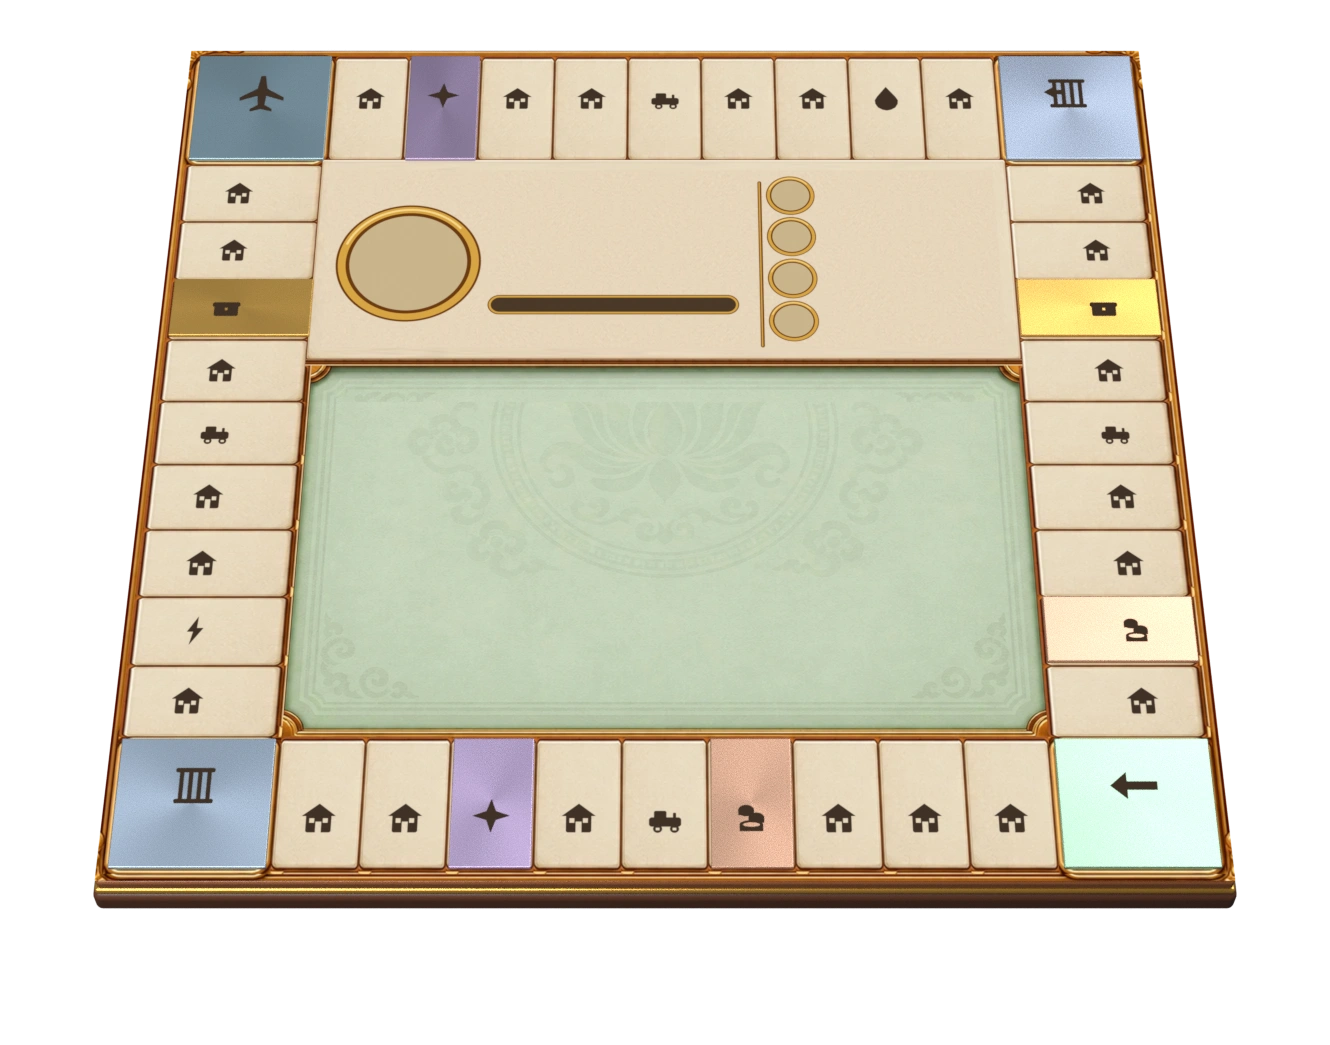
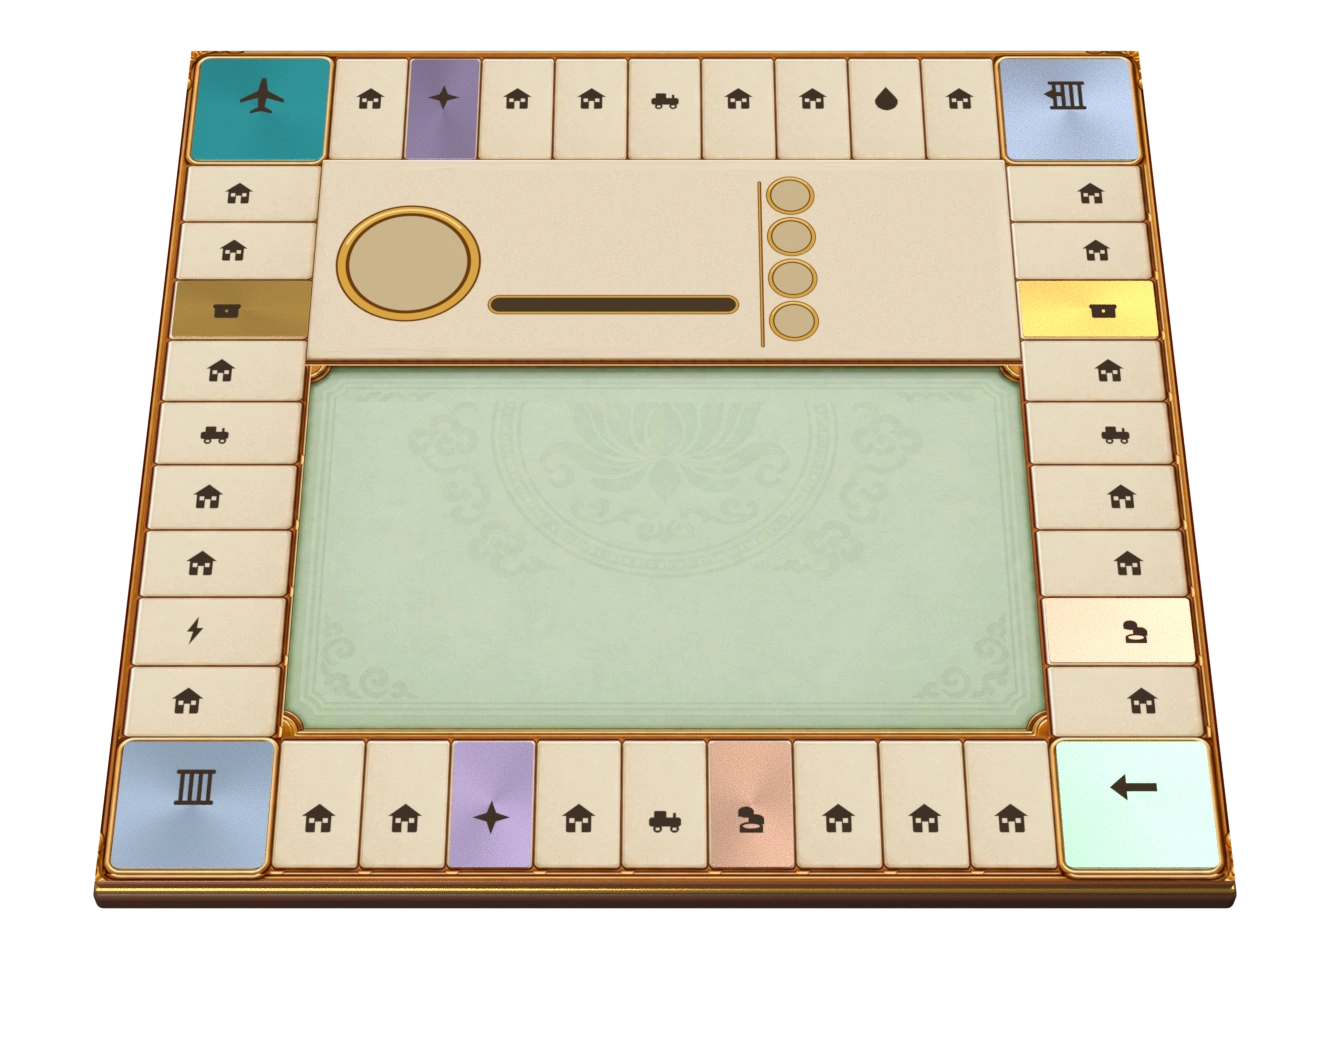
feat(co-ty-phu-classic): polish metallic tiles and distinguish monopoly colors (#81)

diff --git a/games/co-ty-phu-classic/src/scenes/board/monopolyShader.ts b/games/co-ty-phu-classic/src/scenes/board/monopolyShader.ts
@@ -52,7 +52,13 @@ void main() {
              && cross2(uD-uC,p-uC) >= 0. && cross2(uA-uD,p-uD) >= 0.;
   if (!inside) { gl_FragColor = vec4(0.); return; }
   float coverage = smoothstep(0., .7, d);
-  float alpha = 1. - smoothstep(.9, 1.9, d);
+  // Two fine inlaid rails and diamond stitches distinguish a color set from the
+  // owner's solid enamel strip, even when their hues are similar.
+  float outer = 1. - smoothstep(.45, 1.05, abs(d - 1.));
+  float inner = 1. - smoothstep(.25, .8, abs(d - 3.));
+  float stitch = abs(mod(nearest.y + uPhase * 5., 12.) - 6.);
+  float diamond = 1. - smoothstep(.7, 1.3, stitch + abs(d - 2.));
+  float alpha = max(outer * .92, max(inner * .4, diamond * .85));
   vec3 color = uColor;
   float hot = 0.;
   if (uStrength >= 2.) {
@@ -69,7 +75,7 @@ void main() {
                   * smoothstep(.6, 2., d) * smoothstep(.25, .72, flow * .75 + detail * .25);
       alpha = max(alpha, flame * .7);
       hot = exp(-d * d * 1.4) * (.55 + flow * .20);
-      color = mix(uColor * 1.35, vec3(1., .96, .85), hot);
+      color = mix(uColor * 1.25, vec3(1., .96, .85), hot);
     }
   }
   alpha *= coverage;

diff --git a/games/co-ty-phu-classic/src/game/model.ts b/games/co-ty-phu-classic/src/game/model.ts
@@ -209,15 +209,16 @@ export const BOARD: readonly Square[] = [
   street('Cà Mau', 'xanh-dam', 180),
 ];
 
+// Group IDs remain stable; their display palette is independent of player colors.
 export const GROUP_COLORS: Record<Group, number> = {
-  nau: 0x895135,
-  'xanh-nhat': 0x73c4df,
-  hong: 0xe07bba,
-  cam: 0xe89b43,
-  do: 0xcd5249,
-  vang: 0xe9ce63,
-  'xanh-la': 0x5da968,
-  'xanh-dam': 0x416fbd,
+  nau: 0x434959,
+  'xanh-nhat': 0x73dde7,
+  hong: 0xb94dd6,
+  cam: 0x7451c7,
+  do: 0xc3288e,
+  vang: 0x77717d,
+  'xanh-la': 0x673c91,
+  'xanh-dam': 0x176578,
 };
 
 export const isDeed = (square: Square): square is Square & { price: number } =>

diff --git a/games/co-ty-phu-classic/src/scenes/CoTyPhuClassicView.ts b/games/co-ty-phu-classic/src/scenes/CoTyPhuClassicView.ts
@@ -1728,8 +1728,8 @@ export class CoTyPhuClassicView extends GameView<View> {
         if (dice) {
           this.visualPhase = 'rolling';
           this.dice.roll(...beat.dice);
-          this.sfx('tycoon-dice');
           this.onState(this.ctx);
+          await fx.sound('tycoon-dice', { maxStartDelayMs: 80 });
           await fx.frame((delta) => {
             this.dice.update(delta);
             return this.dice.settled;

diff --git a/games/co-ty-phu-classic/src/scenes/board/MonopolyBorders.ts b/games/co-ty-phu-classic/src/scenes/board/MonopolyBorders.ts
@@ -55,7 +55,7 @@ export class MonopolyBorders {
             setupUniforms: (setUniform: (name: string, value: number) => void) =>
               setUniform('uTime', this.elapsed),
           })
-          .setDepth(0.55);
+          .setDepth(0.45);
         this.shaders.set(key, shader);
       }
       const padding = 0;

diff --git a/games/co-ty-phu-classic/sources/render_board_25d.py b/games/co-ty-phu-classic/sources/render_board_25d.py
@@ -7,6 +7,7 @@ Run from the repository root:
 from __future__ import annotations
 
 import json
+import math
 import sys
 from pathlib import Path
 
@@ -27,14 +28,14 @@ WIDTH, HEIGHT = 1400, 1200
 CROP_X, CROP_Y, CROP_WIDTH, CROP_HEIGHT = 35, 145, 1330, 1045
 INK = (63, 49, 38, 255)
 GROUP_COLORS = {
-    "nau": (137, 81, 53, 255),
-    "xanh-nhat": (115, 196, 223, 255),
-    "hong": (224, 123, 186, 255),
-    "cam": (232, 155, 67, 255),
-    "do": (205, 82, 73, 255),
-    "vang": (233, 206, 99, 255),
-    "xanh-la": (93, 169, 104, 255),
-    "xanh-dam": (65, 111, 189, 255),
+    "nau": (67, 73, 89, 255),
+    "xanh-nhat": (115, 221, 231, 255),
+    "hong": (185, 77, 214, 255),
+    "cam": (116, 81, 199, 255),
+    "do": (195, 40, 142, 255),
+    "vang": (119, 113, 125, 255),
+    "xanh-la": (103, 60, 145, 255),
+    "xanh-dam": (23, 101, 120, 255),
 }
 # The players' panel: the tile ring widened into the field's upper part, with sockets the game
 # fills in (the turn player's picture, name, cash and clock; each seat's ball and cash). In board
@@ -135,6 +136,17 @@ def tile_side(i):
     if 31 <= i <= 39:
         return "right"
     return "corner"
+
+
+def face_bounds(square):
+    """Ivory face inside the printed bevel; these are surface limits, not tile hit bounds."""
+    u0, v0, u1, v1 = square_bounds(square)
+    side = tile_side(square)
+    iu, iv = (.035, .045) if side in ("bottom", "top") else (.045, .035)
+    if side == "corner":
+        iu, iv = .04, .04
+    du, dv = (u1 - u0) * iu, (v1 - v0) * iv
+    return u0 + du, v0 + dv, u1 - du, v1 - dv
 
 
 def draw_icon(draw, kind, size):
@@ -433,7 +445,7 @@ METAL_COLORS = {
     "start": (0.32, 0.52, 0.38), "chance": (0.51, 0.40, 0.65),
     "chest": (0.72, 0.43, 0.10), "tax": (0.61, 0.36, 0.25),
     "jail": (0.37, 0.47, 0.60), "go-jail": (0.35, 0.42, 0.55),
-    "airport": (0.36, 0.54, 0.65),
+    "airport": (0.06, 0.62, 0.68),
 }
 
 
@@ -521,24 +533,42 @@ surface.data.materials.append(print_mat)
 
 # Real shallow metal plates: bevels and highlights come from the shared studio lights,
 # rather than gradients painted onto the board's emissive illustration.
-for square, (kind, _) in enumerate(SQUARES):
-    if kind not in METAL_COLORS:
-        continue
-    u0, v0, u1, v1 = square_bounds(square)
-    inset_u, inset_v = (u1 - u0) * 0.028, (v1 - v0) * 0.028
-    bpy.ops.mesh.primitive_cube_add(size=1, location=(((u0 + u1) / 2 - 0.5) * 4, (0.5 - (v0 + v1) / 2) * 4, 0.044))
-    plate = bpy.context.object
-    plate.name = f"Brushed {kind} plate {square}"
-    plate.dimensions = ((u1 - u0 - 2 * inset_u) * 4, (v1 - v0 - 2 * inset_v) * 4, 0.018)
-    bpy.ops.object.transform_apply(location=False, rotation=False, scale=True)
-    bevel = plate.modifiers.new("Machined perimeter", "BEVEL")
-    bevel.width, bevel.segments = 0.005, 4
+def metal_plate(square, kind):
+    u0, v0, u1, v1 = face_bounds(square)
+    x0, x1 = (u0 - .5) * 4, (u1 - .5) * 4
+    y0, y1 = (.5 - v1) * 4, (.5 - v0) * 4
+    # Build the rounded XY silhouette explicitly. A cube bevel alone clamps the corner
+    # radius to half the plate thickness, leaving nearly square corners on a thin sheet.
+    radius = min(x1 - x0, y1 - y0) * .055
+    outline = []
+    for cx, cy, start in [(x1-radius, y1-radius, 0), (x0+radius, y1-radius, 90),
+                          (x0+radius, y0+radius, 180), (x1-radius, y0+radius, 270)]:
+        for step in range(9):
+            angle = math.radians(start + step * 90 / 8)
+            outline.append((cx + radius * math.cos(angle), cy + radius * math.sin(angle)))
+    n = len(outline)
+    vertices = [(x, y, z) for z in (.035, .041) for x, y in outline]
+    faces = [tuple(reversed(range(n))), tuple(range(n, n * 2))]
+    faces += [(i, (i+1) % n, (i+1) % n+n, i+n) for i in range(n)]
+    mesh = bpy.data.meshes.new(f"Rounded metal face {square}")
+    mesh.from_pydata(vertices, [], faces)
+    mesh.update()
+    plate = bpy.data.objects.new(f"Brushed {kind} plate {square}", mesh)
+    bpy.context.collection.objects.link(plate)
+    bevel = plate.modifiers.new("Fine machined lip", "BEVEL")
+    bevel.width, bevel.segments = .001, 3
     plate.modifiers.new("Planar highlights", "WEIGHTED_NORMAL")
     plate.data.materials.append(brushed_metal(f"{kind} satin metal", METAL_COLORS[kind]))
 
+
+for square, (kind, _) in enumerate(SQUARES):
+    if kind not in METAL_COLORS:
+        continue
+    metal_plate(square, kind)
+
 # Transparent printed ink rests on top of the metal, at the identical board UV positions.
 ink_mesh = bpy.data.meshes.new("metal ink plane")
-ink_mesh.from_pydata([(-2, -2, 0.054), (2, -2, 0.054), (2, 2, 0.054), (-2, 2, 0.054)], [], [(0, 1, 2, 3)])
+ink_mesh.from_pydata([(-2, -2, 0.0415), (2, -2, 0.0415), (2, 2, 0.0415), (-2, 2, 0.0415)], [], [(0, 1, 2, 3)])
 ink_uv = ink_mesh.uv_layers.new(name="ink UV")
 for loop, coord in zip(ink_mesh.polygons[0].loop_indices, [(0, 0), (1, 0), (1, 1), (0, 1)]):
     ink_uv.data[loop].uv = coord
@@ -591,17 +621,6 @@ def project(u, v):
         round((image_point.x * WIDTH - CROP_X) / CROP_WIDTH, 6),
         round(((1 - image_point.y) * HEIGHT - CROP_Y) / CROP_HEIGHT, 6),
     ]
-
-
-def face_bounds(square):
-    """Ivory face inside the printed bevel; these are surface limits, not tile hit bounds."""
-    u0, v0, u1, v1 = square_bounds(square)
-    side = tile_side(square)
-    iu, iv = (.035, .045) if side in ("bottom", "top") else (.045, .035)
-    if side == "corner":
-        iu, iv = .04, .04
-    du, dv = (u1 - u0) * iu, (v1 - v0) * iv
-    return u0 + du, v0 + dv, u1 - du, v1 - dv
 
 
 cells = []

diff --git a/games/co-ty-phu-classic/RULES.md b/games/co-ty-phu-classic/RULES.md
@@ -138,30 +138,30 @@ khách sạn là capsule trắng. Các ô không mua được có nền ánh kim
 
 | Ô | Địa danh | Màu | Giá đất | Xây mỗi cấp | Trống | 1 nhà | 2 nhà | 3 nhà | 4 nhà | Khách sạn |
 | ---: | --- | --- | ---: | ---: | ---: | ---: | ---: | ---: | ---: | ---: |
-| 1 | Phú Quốc | Nâu | 200 | 100 | 20 | 80 | 220 | 600 | 800 | 1000 |
-| 2 | Lào Cai | Nâu | 150 | 75 | 15 | 60 | 165 | 450 | 600 | 750 |
-| 3 | Việt Trì | Nâu | 180 | 90 | 18 | 72 | 198 | 540 | 720 | 900 |
-| 6 | Hạ Long | Xanh nhạt | 280 | 140 | 28 | 112 | 308 | 840 | 1120 | 1400 |
-| 8 | Hải Phòng | Xanh nhạt | 320 | 160 | 32 | 128 | 352 | 960 | 1280 | 1600 |
-| 9 | Hà Nội | Xanh nhạt | 350 | 175 | 35 | 140 | 385 | 1050 | 1400 | 1750 |
-| 11 | Hải Dương | Hồng | 220 | 110 | 22 | 88 | 242 | 660 | 880 | 1100 |
-| 13 | Thái Bình | Hồng | 260 | 130 | 26 | 104 | 286 | 780 | 1040 | 1300 |
-| 14 | Nam Định | Hồng | 240 | 120 | 24 | 96 | 264 | 720 | 960 | 1200 |
-| 16 | Thanh Hóa | Cam | 270 | 135 | 27 | 108 | 297 | 810 | 1080 | 1350 |
-| 18 | Vinh | Cam | 260 | 130 | 26 | 104 | 286 | 780 | 1040 | 1300 |
-| 19 | Hà Tĩnh | Cam | 170 | 85 | 17 | 68 | 187 | 510 | 680 | 850 |
-| 21 | Huế | Đỏ | 270 | 135 | 27 | 108 | 297 | 810 | 1080 | 1350 |
-| 23 | Đà Nẵng | Đỏ | 300 | 150 | 30 | 120 | 330 | 900 | 1200 | 1500 |
-| 24 | Hội An | Đỏ | 250 | 125 | 25 | 100 | 275 | 750 | 1000 | 1250 |
-| 26 | Kon Tum | Vàng | 140 | 70 | 14 | 56 | 154 | 420 | 560 | 700 |
-| 27 | Pleiku | Vàng | 160 | 80 | 16 | 64 | 176 | 480 | 640 | 800 |
-| 29 | Đà Lạt | Vàng | 270 | 135 | 27 | 108 | 297 | 810 | 1080 | 1350 |
-| 31 | Nha Trang | Xanh lá | 280 | 140 | 28 | 112 | 308 | 840 | 1120 | 1400 |
-| 32 | Vũng Tàu | Xanh lá | 260 | 130 | 26 | 104 | 286 | 780 | 1040 | 1300 |
-| 34 | Biên Hòa | Xanh lá | 220 | 110 | 22 | 88 | 242 | 660 | 880 | 1100 |
-| 36 | Tp. HCM | Xanh đậm | 350 | 175 | 35 | 140 | 385 | 1050 | 1400 | 1750 |
-| 37 | Cần Thơ | Xanh đậm | 300 | 150 | 30 | 120 | 330 | 900 | 1200 | 1500 |
-| 39 | Cà Mau | Xanh đậm | 180 | 90 | 18 | 72 | 198 | 540 | 720 | 900 |
+| 1 | Phú Quốc | Than chì | 200 | 100 | 20 | 80 | 220 | 600 | 800 | 1000 |
+| 2 | Lào Cai | Than chì | 150 | 75 | 15 | 60 | 165 | 450 | 600 | 750 |
+| 3 | Việt Trì | Than chì | 180 | 90 | 18 | 72 | 198 | 540 | 720 | 900 |
+| 6 | Hạ Long | Cyan | 280 | 140 | 28 | 112 | 308 | 840 | 1120 | 1400 |
+| 8 | Hải Phòng | Cyan | 320 | 160 | 32 | 128 | 352 | 960 | 1280 | 1600 |
+| 9 | Hà Nội | Cyan | 350 | 175 | 35 | 140 | 385 | 1050 | 1400 | 1750 |
+| 11 | Hải Dương | Tím lan | 220 | 110 | 22 | 88 | 242 | 660 | 880 | 1100 |
+| 13 | Thái Bình | Tím lan | 260 | 130 | 26 | 104 | 286 | 780 | 1040 | 1300 |
+| 14 | Nam Định | Tím lan | 240 | 120 | 24 | 96 | 264 | 720 | 960 | 1200 |
+| 16 | Thanh Hóa | Tím violet | 270 | 135 | 27 | 108 | 297 | 810 | 1080 | 1350 |
+| 18 | Vinh | Tím violet | 260 | 130 | 26 | 104 | 286 | 780 | 1040 | 1300 |
+| 19 | Hà Tĩnh | Tím violet | 170 | 85 | 17 | 68 | 187 | 510 | 680 | 850 |
+| 21 | Huế | Magenta | 270 | 135 | 27 | 108 | 297 | 810 | 1080 | 1350 |
+| 23 | Đà Nẵng | Magenta | 300 | 150 | 30 | 120 | 330 | 900 | 1200 | 1500 |
+| 24 | Hội An | Magenta | 250 | 125 | 25 | 100 | 275 | 750 | 1000 | 1250 |
+| 26 | Kon Tum | Xám bạc | 140 | 70 | 14 | 56 | 154 | 420 | 560 | 700 |
+| 27 | Pleiku | Xám bạc | 160 | 80 | 16 | 64 | 176 | 480 | 640 | 800 |
+| 29 | Đà Lạt | Xám bạc | 270 | 135 | 27 | 108 | 297 | 810 | 1080 | 1350 |
+| 31 | Nha Trang | Tím mận | 280 | 140 | 28 | 112 | 308 | 840 | 1120 | 1400 |
+| 32 | Vũng Tàu | Tím mận | 260 | 130 | 26 | 104 | 286 | 780 | 1040 | 1300 |
+| 34 | Biên Hòa | Tím mận | 220 | 110 | 22 | 88 | 242 | 660 | 880 | 1100 |
+| 36 | Tp. HCM | Xanh dầu | 350 | 175 | 35 | 140 | 385 | 1050 | 1400 | 1750 |
+| 37 | Cần Thơ | Xanh dầu | 300 | 150 | 30 | 120 | 330 | 900 | 1200 | 1500 |
+| 39 | Cà Mau | Xanh dầu | 180 | 90 | 18 | 72 | 198 | 540 | 720 | 900 |
 
 ## Thế chấp và chuộc
 

diff --git a/games/co-ty-phu-classic/README.md b/games/co-ty-phu-classic/README.md
@@ -67,7 +67,8 @@ danh mục `square` và `card` dùng cho gợi ý bằng Tab.
 `assets/` chứa ảnh và âm thanh dùng trực tiếp; `sources/` chứa prompt và script nguồn.
 `sources/render_board_25d.py` tạo `assets/board-25d.webp` cùng
 `src/scenes/board/boardGeometry.ts`; các ô không mua được dùng vật liệu kim loại xước
-và ánh sáng Blender, Khí vận dùng vàng kim. `sources/render_deed_layers.py` dùng cùng
+và ánh sáng Blender, Khí vận dùng vàng kim, Sân bay dùng cyan. Tấm kim loại mỏng có
+đường bao bo góc theo mặt ô và gờ bắt sáng nhỏ. `sources/render_deed_layers.py` dùng cùng
 camera và ánh sáng để tạo atlas `deed-layers.webp`/`.json` gồm 240 frame badge men màu,
 nhà và khách sạn sứ trắng, cùng `deedLayerGeometry.ts`. Khi sửa camera, kích thước ô
 hoặc ánh sáng, chạy lần lượt hai script để ảnh và tọa độ khớp nhau:
@@ -77,7 +78,11 @@ blender -b -t 4 --python games/co-ty-phu-classic/sources/render_board_25d.py
 blender -b -t 4 --python games/co-ty-phu-classic/sources/render_deed_layers.py
 ```
 
-Viền bộ màu được khử răng cưa trong shader GPU và cắt trong `BOARD_FACES`,
+Màu bộ dùng than chì, cyan, tím lan, tím violet, magenta, bạc, tím mận và xanh dầu,
+xa các tông đỏ san hô, xanh dương, xanh lá và vàng của người chơi.
+Viền có hai nét khảm mảnh và hoa văn hình thoi,
+khác với dải men đặc màu chủ đất.
+Viền bộ nằm dưới badge, được khử răng cưa trong shader GPU và cắt trong `BOARD_FACES`,
 phần mặt ô bên trong gờ in sẵn. Quầng sáng/lửa hướng vào trong, không tràn khỏi mặt ô.
 Badge men nằm phẳng và được cắt theo cùng giới hạn bề mặt. Hai ô cùng chủ có quầng sáng nhẹ;
 đủ bộ thì nhiễu liên tục tạo lửa chạy quanh viền. Chỉ các ô chạm nhau được gộp khung;
@@ -88,6 +93,7 @@ nền trong suốt, dùng riêng cho màn nhảy chiến thắng (`pawn-front-*.
 Xúc xắc được render 3D trực tiếp trong `Dice3D.ts`: mỗi lần gieo chọn ngẫu nhiên một trong
 bốn chuyển động lăn, tung vòng cung, nảy nhiều nhịp và xoáy. Tất cả cùng dừng ở mặt trên
 theo kết quả server; quỹ đạo nằm trong `diceMotion.ts`.
+Cả bốn kiểu tung dùng một lần tiếng lăn gốc `tycoon-dice.wav`; âm thanh dừng khi hủy lượt.
 `sources/make_audio.py` tạo bộ âm thanh; `sources/make_audio_preview.py` tạo
 [trang nghe thử](sources/audio-preview/index.html).
 Tiếng rút/lật thẻ dùng lại từ Tiến Lên; nhạc thắng dùng lại `mau-binh-standings.mp3` của Mậu Binh.

diff --git a/games/co-ty-phu-classic/AGENTS.md b/games/co-ty-phu-classic/AGENTS.md
@@ -9,11 +9,13 @@ Read `../AGENTS.md` for the shared game/SDK rules. The Vietnamese component map 
 - `src/scenes/board/`: projected tile geometry, prices, ownership and special-square symbols;
   `SymbolAtlas.ts` packs their baked animation frames for upload once at scene creation.
   `MonopolyBorders.ts` merges only touching same-owner group tiles; `monopolyShader.ts`
-  draws antialiased outlines and flowing fire inward on the GPU, clipped to `BOARD_FACES`. `DeedLayers.ts` selects baked
+  draws antialiased double inlaid rails, diamond stitches and flowing fire inward on the GPU,
+  below owner badges and clipped to `BOARD_FACES`. `DeedLayers.ts` selects baked
   enamel owner strips and porcelain building frames; no runtime flat badge polygons.
 - `src/scenes/effects/`: backdrop, small-object glow, money animations, money audio the scoped private jail-door effect (`JailGateEffect.ts`), and the victory celebration (`VictoryEffect.ts`).
 - `src/scenes/hud/`: player-panel projection (`PlayerPanel.ts`) and pattern (`PlayerPanelPattern.ts`), tooltips, rent tables, bulk mortgage selection/confirmation (`MortgagePanel.ts`), auction confirmation (`AuctionConfirmPanel.ts`), cached action icons (`PropertyActionIcons.ts`) and property action availability.
 - `src/scenes/presentation/`: dice, event-card presentation, notices and property snapshot queue.
+  All four dice motions use the original `tycoon-dice` sound, owned by the roll flow.
 - Tests stay next to the implementation they exercise.
 
 `sources/render_board_25d.py` generates `assets/board-25d.webp` and
